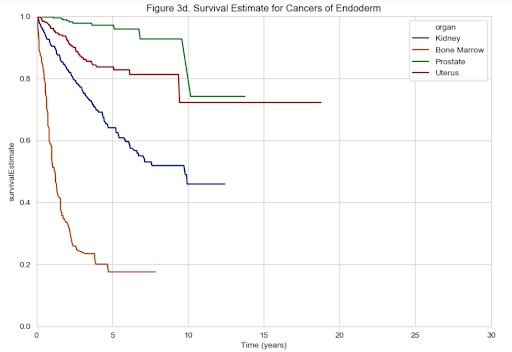
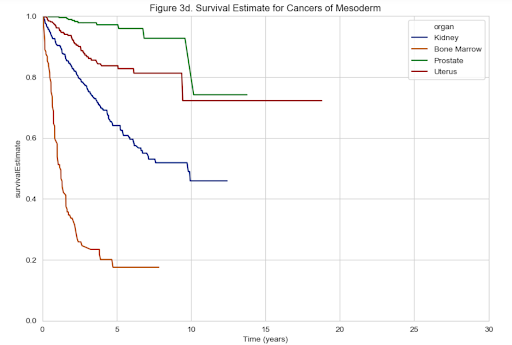
update images & index.md

diff --git a/index.md b/index.md
@@ -39,7 +39,12 @@ description: DSC 180B project
 
 ### Results & Discussion
 Here is where all the viz and tables go
-![Figure 2](assets/images/fig2.png "Figure 2") ![Overall Survival](assets/images/overall_surv.png "Figure 3a")
+![Figure 2](assets/images/fig2.png "Figure 2") 
+
+| Ectoderm  | Mesoderm | Endoderm |
+| --------- | -------- | -------- |
+| ![Ectoderm Survival](assets/images/ecto_surv.png "Figure 3b") | ![Mesoderm Survival](assets/images/meso_surv.png "Figure 3d") | ![Endoderm Survival](assets/images/endo_surv.png "Figure 3c") |
+
 
 ### Conclusion
 Was our hypothesis correct? What did we discover?
